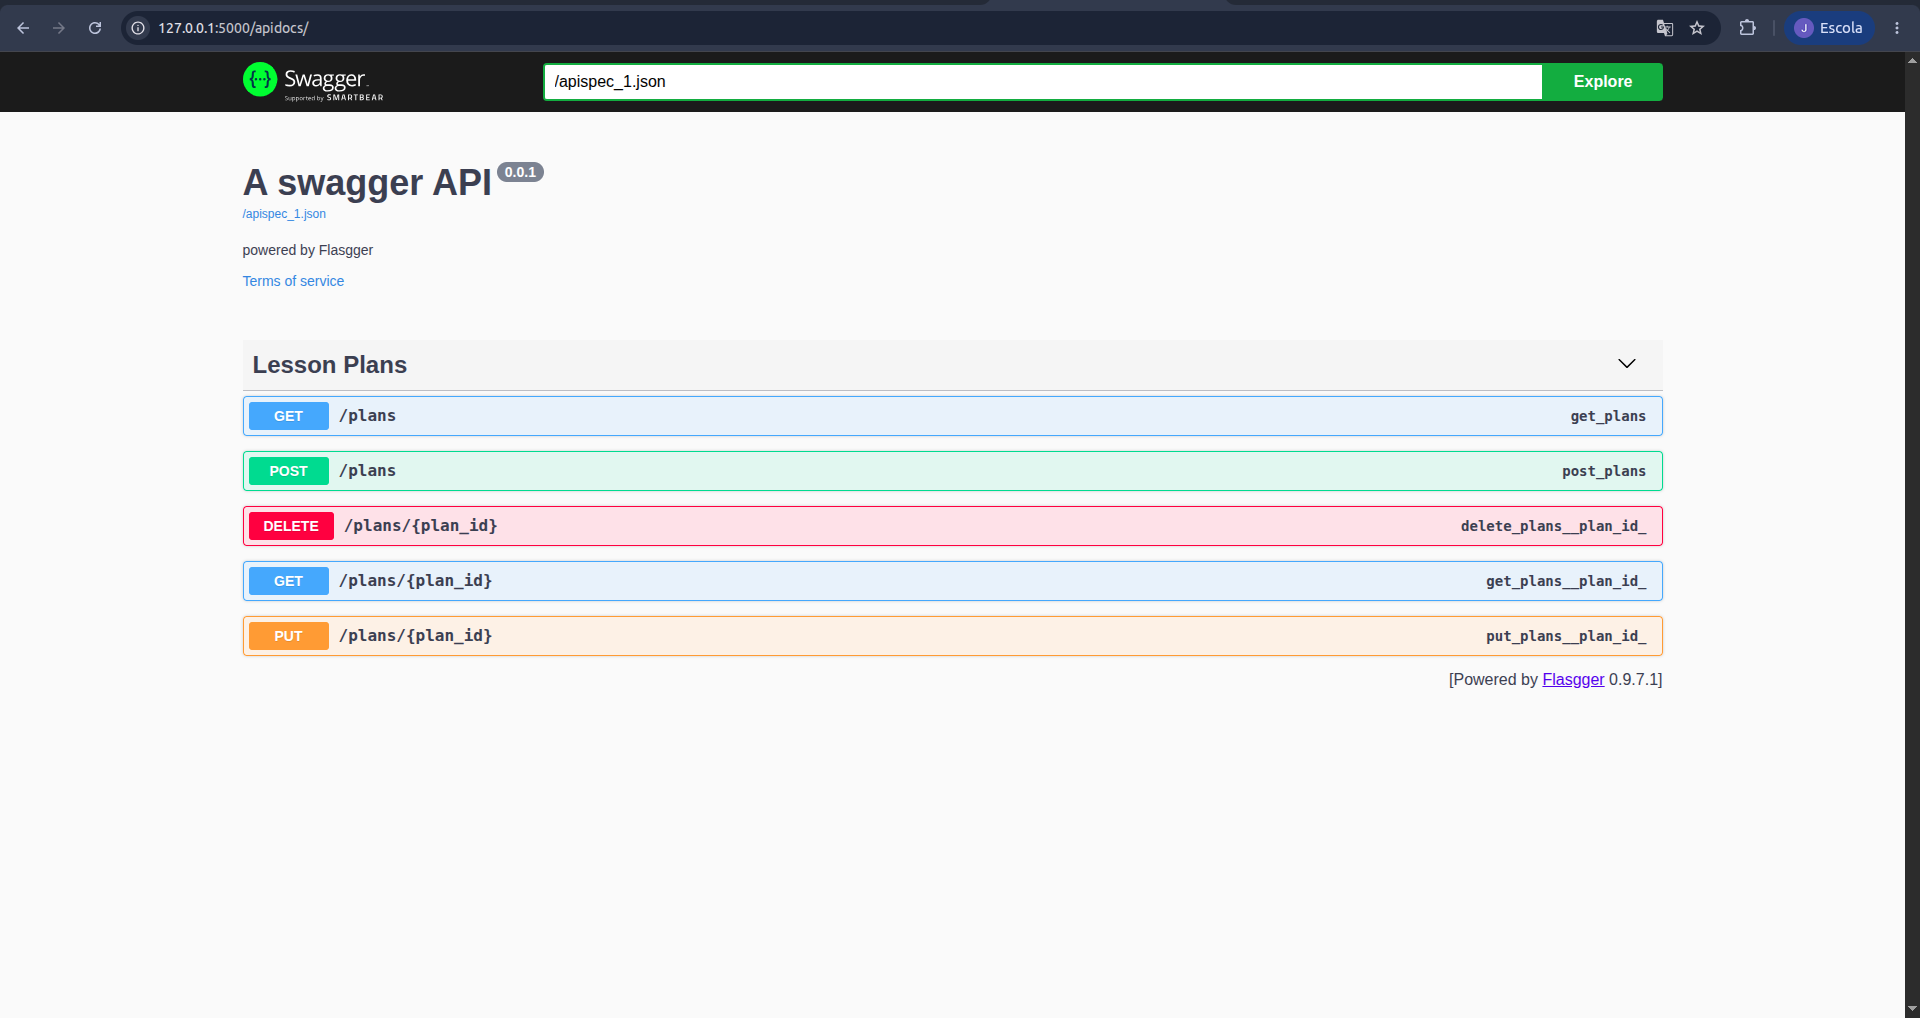
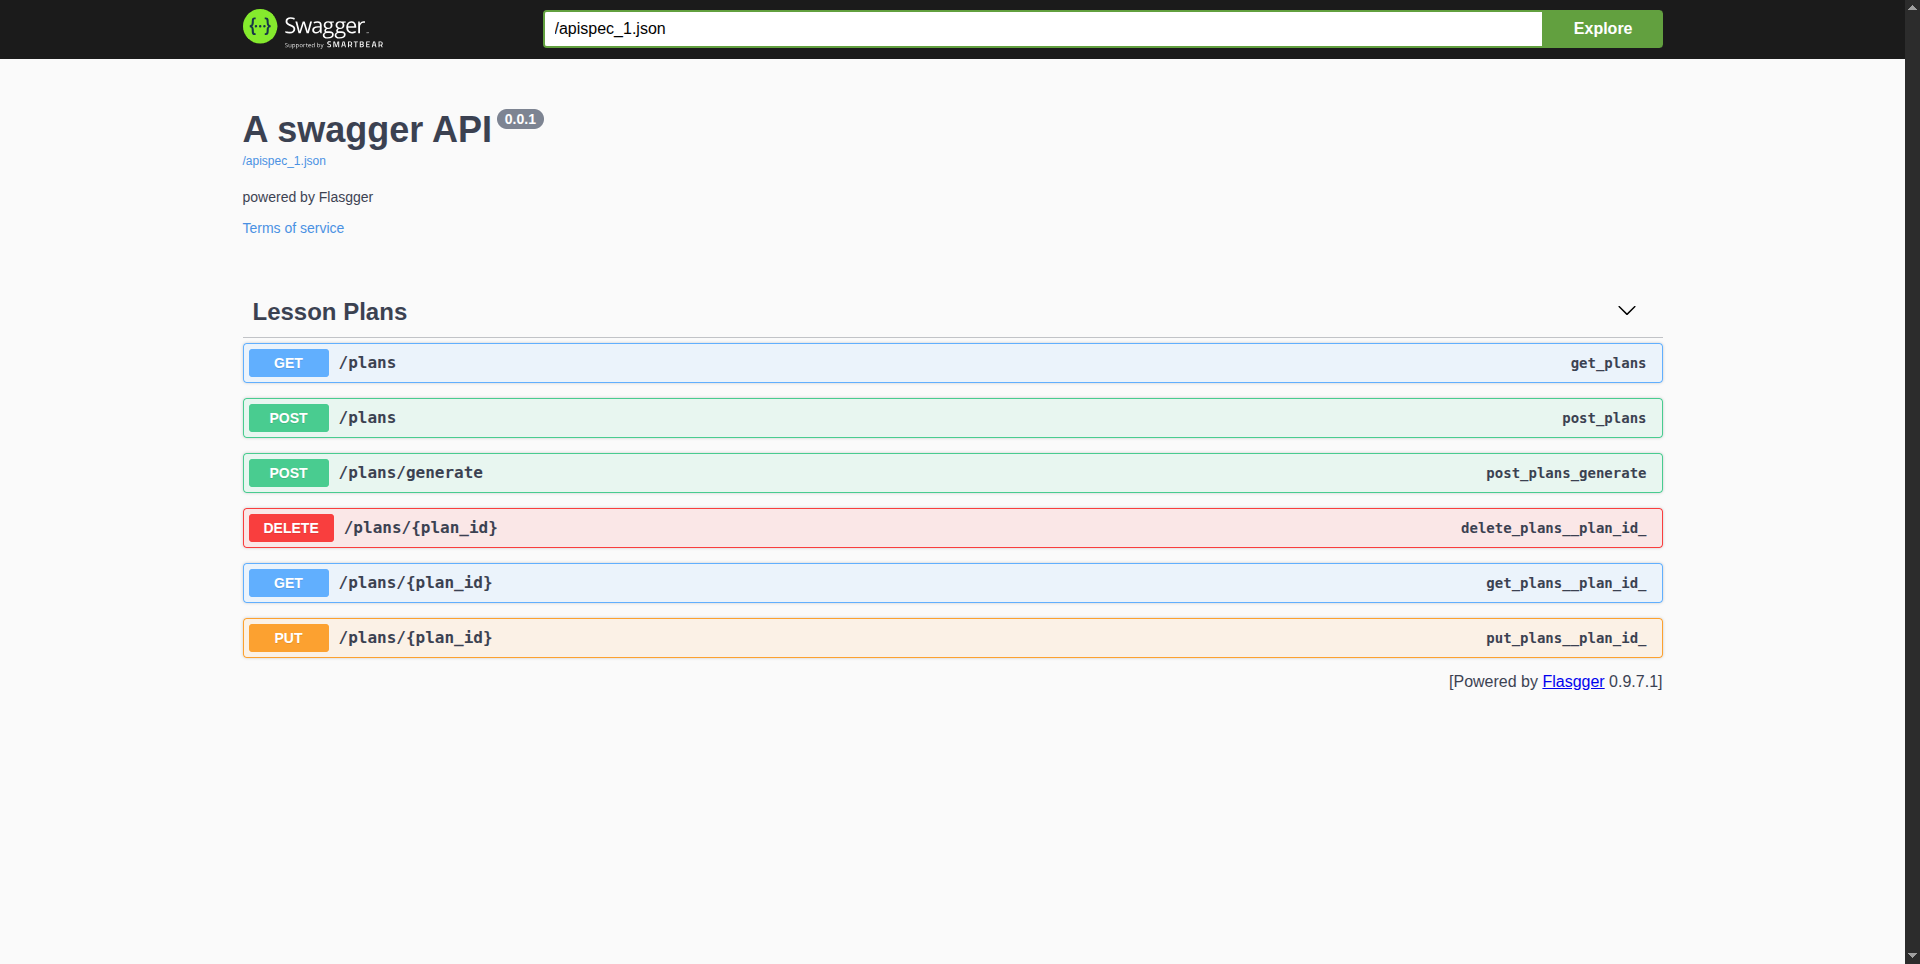
docs: document /plans/generate endpoint in Swagger

Changed region(s): [[0.125, 0.3112, 0.875, 0.7158], [0.0, 0.0, 1.0, 0.2801]]

diff --git a/lesson-plan-manager/backend/app/routes/lesson_plan_routes.py b/lesson-plan-manager/backend/app/routes/lesson_plan_routes.py
@@ -328,7 +328,35 @@ def delete_plan(plan_id):
     return jsonify({
         "message": "Lesson plan deleted"
     })
-    
+
+@swag_from({
+    "tags": ["Lesson Plans"],
+    "parameters": [
+        {
+            "name": "body",
+            "in": "body",
+            "required": True,
+            "schema": {
+                "type": "object",
+                "properties": {
+                    "topic": {
+                        "type": "string",
+                        "example": "TCP/IP"
+                    }
+                }
+            }
+        }
+    ],
+    "responses": {
+        201: {
+            "description": "Lesson plan generated successfully"
+        },
+        400: {
+            "description": "Topic is required"
+        }
+    }
+})
+
 @lesson_plan_bp.route(
     "/plans/generate",
     methods=["POST"]
